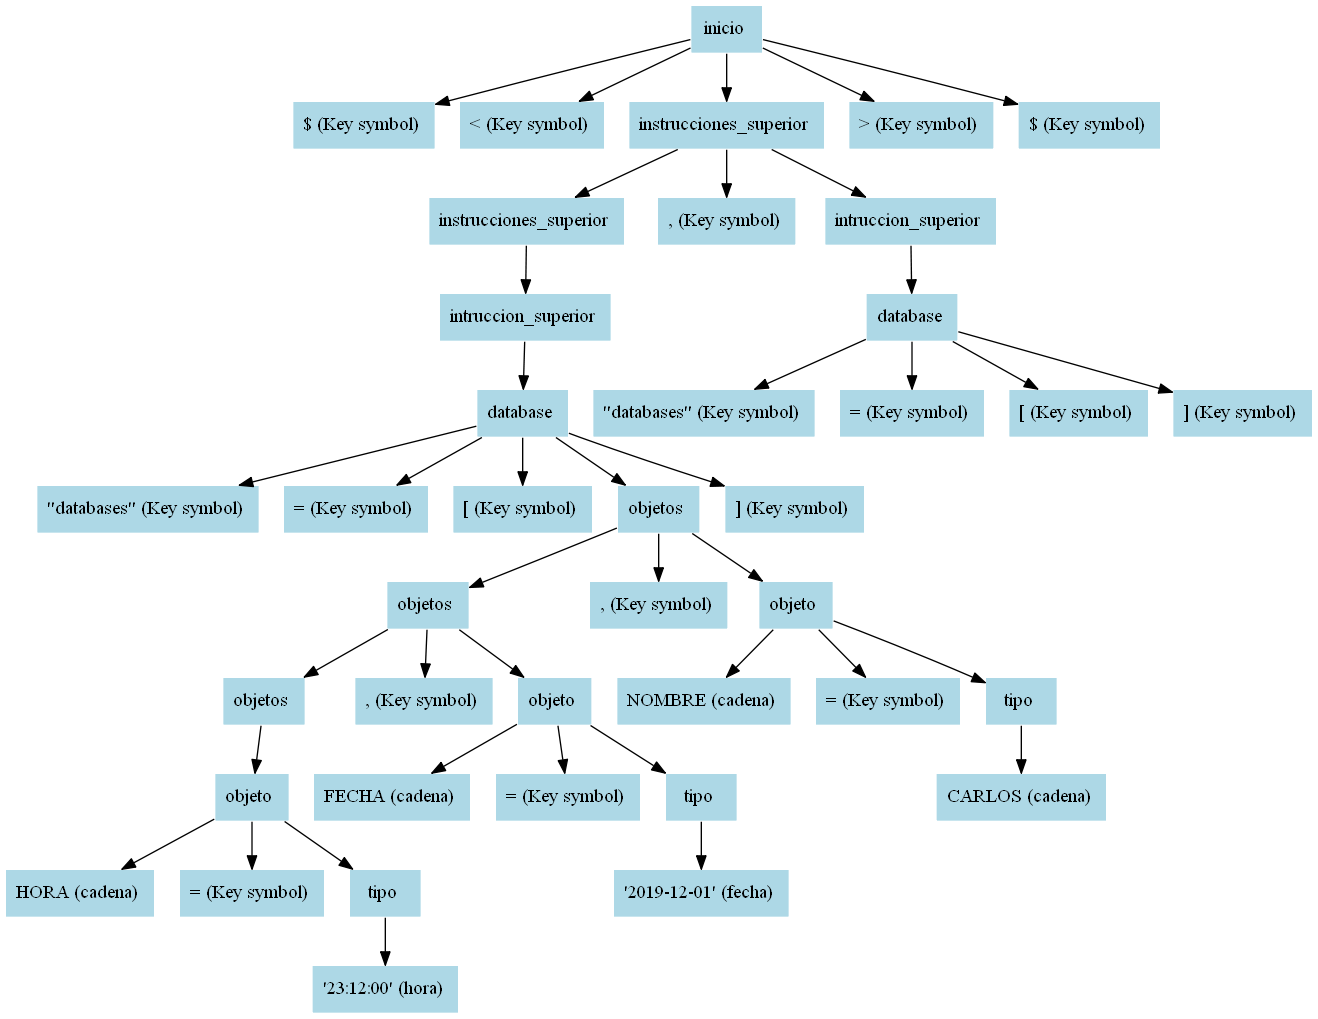
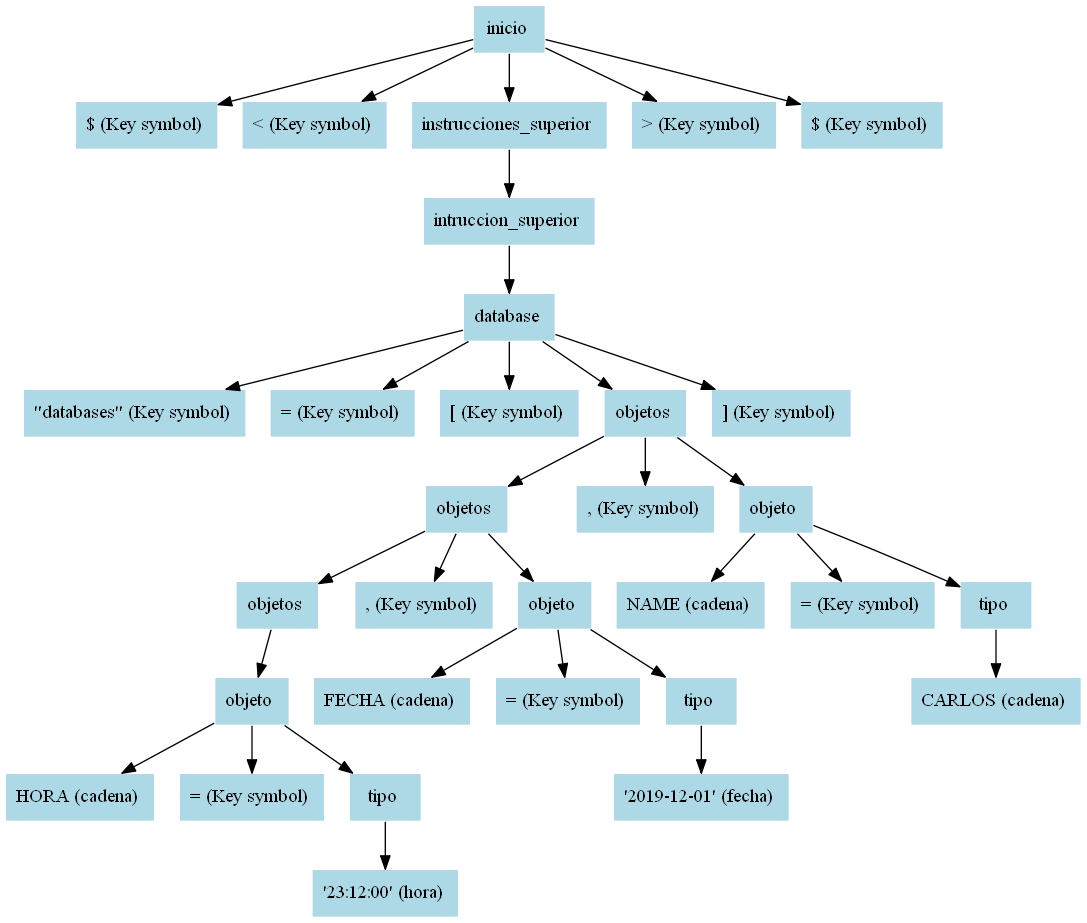
Se agrego el recorrido para database y a su vez devolver su lista de atributos

diff --git a/chat-teacher-server/CHISON/Gramatica/SintacticoChison.cs b/chat-teacher-server/CHISON/Gramatica/SintacticoChison.cs
@@ -1,4 +1,5 @@
-using cql_teacher_server.LUP.Gramatica;
+using cql_teacher_server.CHISON.Componentes;
+using cql_teacher_server.LUP.Gramatica;
 using Irony.Parsing;
 using System;
 using System.Collections.Generic;
@@ -9,7 +10,7 @@ namespace cql_teacher_server.CHISON.Gramatica
 {
     class SintacticoChison
     {
-
+        LinkedList<BaseDeDatos> global = new LinkedList<BaseDeDatos>();
         public void analizar(string cadena)
         {
             GramaticaChison gramatica = new GramaticaChison();
@@ -27,12 +28,149 @@ namespace cql_teacher_server.CHISON.Gramatica
                 }
 
                 if(arbol.ParserMessages.Count() < 1)
+                {
                     graficar(raiz);
+
+                    ejecutar(raiz.ChildNodes.ElementAt(2));
+                    
+                }
+                    
             }else System.Diagnostics.Debug.WriteLine("ERROR CHISON VACIO");
 
 
 
         }
+
+
+        /*-------------------------------------------------------------------------------------------------------------------------------------------------
+         ---------------------------------------------------------- METODOS PARA ANALIZAR EL ARBOL --------------------------------------------------------
+         -------------------------------------------------------------------------------------------------------------------------------------------------*/
+
+        public Object ejecutar(ParseTreeNode raiz)
+        {
+            if (raiz != null)
+            {
+                string etiqueta = raiz.ToString().Split(' ')[0].ToLower();
+
+                switch (etiqueta)
+                {
+                    //-------------------------------------- Instrucciones Superiores ------------------------------
+                    case "instrucciones_superior":
+                        //------------------------ instrucciones_superio coma instruccion_superior------------------------------------
+                        if (raiz.ChildNodes.Count() == 3)
+                        {
+
+                        }else if(raiz.ChildNodes.Count() == 1)
+                        {
+                            //--------------------- instruccion superior ------------------------------------------------------------
+                            ParseTreeNode hijo = raiz.ChildNodes.ElementAt(0);
+                            ejecutar(hijo.ChildNodes.ElementAt(0));
+                            return null;
+                        }
+                        break;
+
+                    //--------------------------------- database ----------------------------------------------------------------
+                    case "database":
+                        LinkedList<Atributo> lista = (LinkedList<Atributo>)ejecutar(raiz.ChildNodes.ElementAt(3));
+                        BaseDeDatos newBase = new BaseDeDatos(lista, "sin usar");
+                        global.AddLast(newBase);
+                        break;
+
+                    //-------------------------------------- objetos -------------------------------------------------------------------
+                    case "objetos":
+                        //-------------------------- objetos , objeto -----------------------------------------------------------------
+                        if(raiz.ChildNodes.Count() == 3)
+                        {
+                            LinkedList<Atributo> listaA = (LinkedList<Atributo>)ejecutar(raiz.ChildNodes.ElementAt(0));
+                            listaA.AddLast((Atributo)ejecutar(raiz.ChildNodes.ElementAt(2)));
+                            return listaA;
+                        }else if(raiz.ChildNodes.Count() == 1)
+                        {
+                            //---------------------------- objeto -----------------------------------------------------------------------
+                            LinkedList<Atributo> listaA = new LinkedList<Atributo>();
+                            listaA.AddLast((Atributo)ejecutar(raiz.ChildNodes.ElementAt(0)));
+                            return listaA;
+                        }
+                        break;
+
+                    //------------------------------------ CADENA -----------------------------------------------------------------------
+                    case "objeto":
+                        string token = raiz.ChildNodes.ElementAt(0).ToString().Split("(")[0];
+                        token = token.TrimEnd();
+
+                        Object valor = null;
+
+                        ParseTreeNode hijoT = raiz.ChildNodes.ElementAt(2);
+                        string tipo = hijoT.ChildNodes.ElementAt(0).ToString().Split("(")[1];
+
+                        if (tipo.Equals("hora)"))
+                        {
+                            tipo = "HORA";
+                            string valorTemp = hijoT.ChildNodes.ElementAt(0).ToString().Split("(")[0];
+                            valorTemp = valorTemp.Replace("\'", string.Empty);
+                            valorTemp = valorTemp.TrimEnd();
+                            valorTemp = valorTemp.TrimStart();
+                            valor = (string)valorTemp;
+                        }else if (tipo.Equals("fecha)"))
+                        {
+                            tipo = "FECHA";
+                            string valorTemp = hijoT.ChildNodes.ElementAt(0).ToString().Split("(")[0];
+                            valorTemp = valorTemp.Replace("\'", string.Empty);
+                            valorTemp = valorTemp.TrimEnd();
+                            valorTemp = valorTemp.TrimStart();
+                            valor = (string)valorTemp;
+                        }else if (tipo.Equals("cadena)"))
+                        {
+                            tipo = "CADENA";
+                            string valorTemp = hijoT.ChildNodes.ElementAt(0).ToString().Split("(")[0];
+                            valorTemp = valorTemp.TrimEnd();
+                            valor = (string)valorTemp;
+                        }
+                        else if (tipo.Equals("entero)"))
+                        {
+                            tipo = "ENTERO";
+                            string valorTemp = hijoT.ChildNodes.ElementAt(0).ToString().Split("(")[0];
+                            valorTemp = valorTemp.TrimEnd();
+                            valor = (string)valorTemp;
+                        }
+                        else if (tipo.Equals("decimal)"))
+                        {
+                            tipo = "DECIMAL";
+                            string valorTemp = hijoT.ChildNodes.ElementAt(0).ToString().Split("(")[0];
+                            valorTemp = valorTemp.TrimEnd();
+                            valor = (string)valorTemp;
+                        }else if(tipo.Equals("Key symbol)"))
+                        {
+                            tipo = "BOOLEAN";
+                            string valorTemp = hijoT.ChildNodes.ElementAt(0).ToString().Split("(")[0];
+                            valorTemp = valorTemp.Replace("\"", string.Empty);
+                            valorTemp = valorTemp.TrimEnd();
+                            valorTemp = valorTemp.TrimStart();
+                            valor = (string)valorTemp;
+                        }
+
+                        Atributo a = new Atributo(token, valor, tipo);
+                        return a;
+
+                        break;
+                }
+            }
+            return null;
+        }
+
+
+
+
+
+
+
+
+
+
+
+
+
+
 
 
         /*-------------------------------------------------------------------------------------------------------------------------------------------------------

diff --git a/chat-teacher-server/CHISON/Componentes/BaseDeDatos.cs b/chat-teacher-server/CHISON/Componentes/BaseDeDatos.cs
@@ -1,0 +1,30 @@
+using System;
+using System.Collections.Generic;
+using System.Linq;
+using System.Threading.Tasks;
+
+namespace cql_teacher_server.CHISON.Componentes
+{
+    public class BaseDeDatos 
+    {
+        public LinkedList<Atributo> atributos { get; set; }
+        public string usuarioActual { get; set; }
+
+        public BaseDeDatos(LinkedList<Atributo> atributos, string usuarioActual)
+        {
+            this.atributos = atributos;
+            this.usuarioActual = usuarioActual;
+        }
+
+        public Atributo getAtributo(string name)
+        {
+            foreach(Atributo s in atributos)
+            {
+                if (s.nombre.Equals(name)) return s;
+            }
+            return null;
+        }
+
+        
+    }
+}

diff --git a/chat-teacher-server/CHISON/Componentes/Atributo.cs b/chat-teacher-server/CHISON/Componentes/Atributo.cs
@@ -1,0 +1,21 @@
+using System;
+using System.Collections.Generic;
+using System.Linq;
+using System.Threading.Tasks;
+
+namespace cql_teacher_server.CHISON
+{
+    public class Atributo
+    {
+        public string nombre { get; set; }
+        public Object valor { get; set; }
+        public string tipo { get; set; }
+
+        public Atributo(string nombre, object valor, string tipo)
+        {
+            this.nombre = nombre;
+            this.valor = valor;
+            this.tipo = tipo;
+        }
+    }
+}
